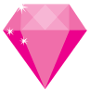
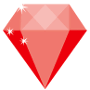
styling to red/yellow

diff --git a/page/css/common.css b/page/css/common.css
@@ -2,13 +2,7 @@
 
 /* BODY */
 
-html {
-    margin: 0 0 0 0;
-    padding: 0;
-}
-
-body {
-	color: #343240;
+html, body {
     margin: 0;
     padding: 0;
 }
@@ -22,19 +16,15 @@ h2, h3, h4, h5 {
 }
 
 h2 {
-    color: #5f445f;
-}
-
-h3 {
     color: #9c231f;
 }
 
-h4 {
-    color: #68978c;
+h3 {
+    color: #629186;
 }
 
-h5 {
-    color: #72aa9f;
+h4 {
+    color: #2b4238;
 }
 
 a {
@@ -43,10 +33,6 @@ a {
     word-wrap: break-word;
     word-break: break-word;
     hyphens: auto
-}
-
-a:visited {
-    color: #8B668B;
 }
 
 @media screen {
@@ -95,19 +81,19 @@ a:visited {
 
 div.header {
     /*background-color: #ffe2ee;*/
-    background-color: #fcd3e8;
-    border-bottom: 5px solid #343240;
+    background-color: #FFFDA1;
+    border-bottom: 4px solid #8c5946;
 }
 
 div.header h1 {
     font-family: 'Domine', serif;
     font-size: 40px;
-    color: #343240;
+    color: #B3292E;
     margin: 0;
     padding-top: 5px;
 }
 
-a.backButton {
+a.homeButton {
     display: block;
     margin: 8px 10px 30px 10px;
     float: left;
@@ -135,10 +121,11 @@ div.linkBar div {
 div.linkBar div a {
     font-size: 40px;
     padding: 5px;
+    color: #e09780;
 }
 
 div.linkBar div a.active {
-    color: #362536;
+    color: #8c5946;
 }
 
 @media print {
@@ -152,14 +139,6 @@ div.linkBar div a.active {
 
 p, li, blockquote {
     font-family: Lusitana, serif;
-}
-
-code {
-    display: block;
-    font-family: monospace;
-    max-width: 100%;
-    overflow: hidden;
-    background-color: #fdefff
 }
 
 p, li, blockquote, code {
@@ -198,10 +177,4 @@ p.story {
 
 .hidden {
 	display: none;
-}
-
-blockquote {
-    border: solid #cb050b;
-    border-width: 1px 0 1px 0;
-    color: #cb050b;
 }

diff --git a/page/css/internals.css b/page/css/internals.css
@@ -1,3 +1,24 @@
 li {
     list-style: square;
 }
+
+blockquote {
+    border: solid #cb050b;
+    border-width: 4px 0 4px 0;
+    color: #cb050b;
+}
+
+code {
+    display: block;
+    font-size: 14px;
+    font-weight: bold;
+    max-width: 100%;
+    width: 100% !important;
+    color: #292951;
+    background-color: #aaefe4;
+    border: solid #68978c;
+    padding: 20px 25px;
+    white-space: pre-wrap;
+    border-width: 4px 0 4px 0;
+    margin: 30px 0 40px 0;
+}

diff --git a/page/css/all-systems.css b/page/css/all-systems.css
@@ -27,18 +27,20 @@ p.intro {
 }
 
 .toc a {
-    color: #00008b;
+    color: #2b4238;
 }
 
 code {
+    display: block;
+    font-family: monospace;
     font-size: 14px;
     font-weight: bold;
     max-width: 100%;
     color: #292951;
-    background-color: #dfd9fd;
+    background-color: #aaefe4;
+    border: solid #68978c;
     padding: 20px 25px;
     white-space: pre-wrap;
-    border: #9b9bfd solid;
     border-width: 4px 0 4px 0;
     margin: 30px 0 40px 0;
 }

diff --git a/page/css/toc.css b/page/css/toc.css
@@ -12,11 +12,11 @@
 }
 
 .toc .level3 {
-    color: #00008b;
+    color: #629186;
 }
 
 .toc .level4 {
-    color: #5F445F;
+    color: #2b4238;
 }
 
 @media only screen and (min-width: 1100px) {

diff --git a/page/css/timeline.css b/page/css/timeline.css
@@ -18,9 +18,6 @@ ul.yearList h2 {
 	margin: 0;
 }
 
-ul.yearList ul {
-}
-
 ul.yearList ul li {
 	list-style: square;
 	padding: 10px 5px 10px 5px;

diff --git a/page/css/interview.css b/page/css/interview.css
@@ -4,3 +4,7 @@ h3, h4, h5 {
     font-size: 20px;
     max-width: 40em;
 }
+
+h3 {
+    color: #9c231f;
+}

diff --git a/api/component/Header.php b/api/component/Header.php
@@ -35,28 +35,15 @@ class Header
         $Header = new HtmlElement('div');
         $Header->addAttribute('class', 'header');
 
-        if ($this->backPage) {
 
-            $Link = new HtmlElement('a');
-            $Link->addAttribute('href', $LinkApi->getLink($this->backPage));
-            $Link->addClass('backButton');
-            $Header->addChildNode($Link);
+        $Link = new HtmlElement('a');
+        $Link->addAttribute('href', $LinkApi->getLink("index"));
+        $Link->addClass('homeButton');
+        $Header->addChildNode($Link);
 
-            $BackImage = new HtmlElement('img', false);
-            $BackImage->addAttribute('src', 'page/img/back.png');
-            $Link->addChildNode($BackImage);
-
-        } else {
-
-            $Link = new HtmlElement('a');
-            $Link->addAttribute('href', $LinkApi->getLink("index"));
-            $Link->addClass('backButton');
-            $Header->addChildNode($Link);
-
-            $HomeImage = new HtmlElement('img', false);
-            $HomeImage->addAttribute('src', 'page/img/home.png');
-            $Link->addChildNode($HomeImage);
-        }
+        $HomeImage = new HtmlElement('img', false);
+        $HomeImage->addAttribute('src', 'page/img/home.png');
+        $Link->addChildNode($HomeImage);
 
         $Header->addChildNode($H1);
 

diff --git a/doc/internals.md b/doc/internals.md
@@ -4,7 +4,7 @@ A natural language interaction system (NLI) allows a user to interact with it us
 
 NLI is a discipline that touches the fields of artificial intelligence, linguistics, databases, information retrieval, and cognitive ergonomics. At the same time it has concepts and techniques that are unique to it. It is a complex problem with a rich history.
 
-## Reasons for NLI
+## Reasons for using NLI
 
 Ever since there are computers, people have wanted to interact with them using their natural language (like English or French).
 
